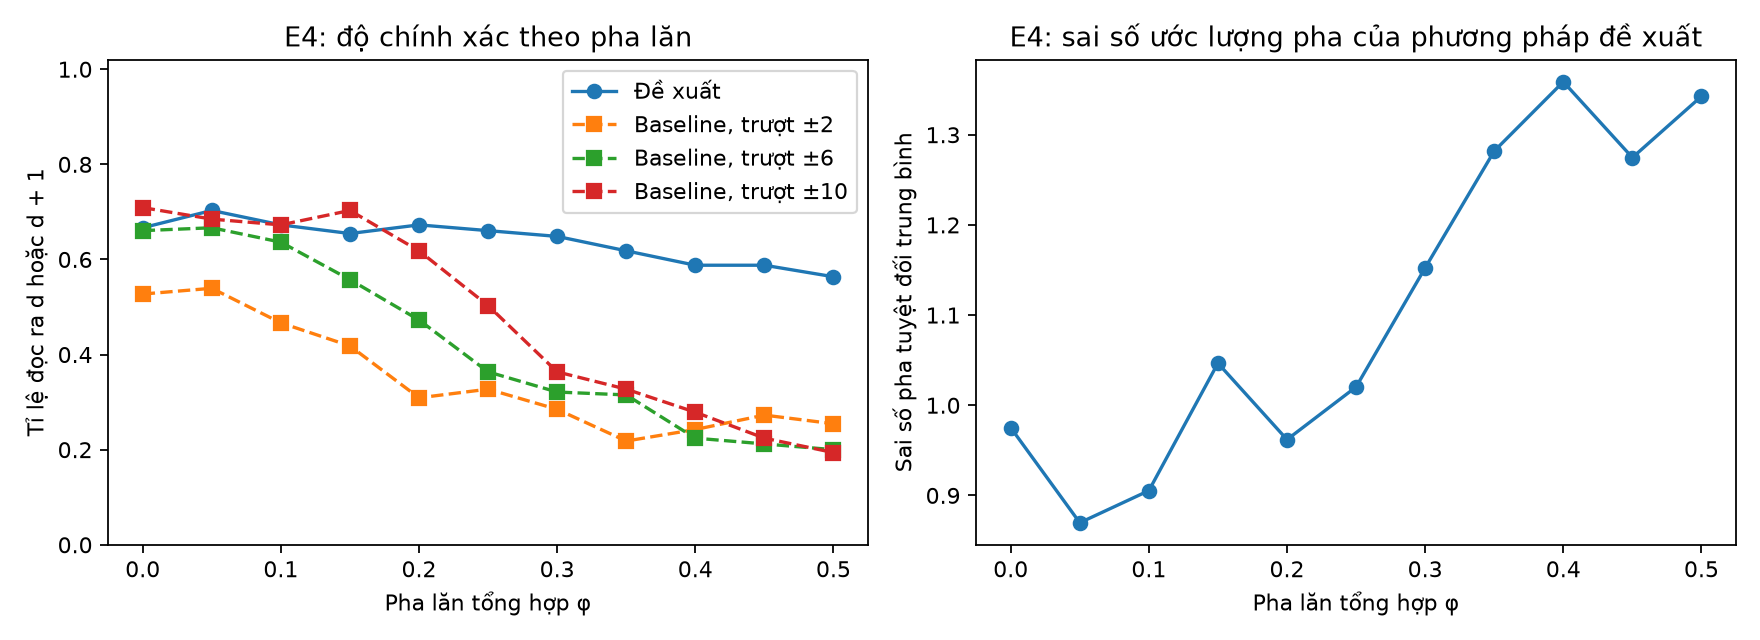
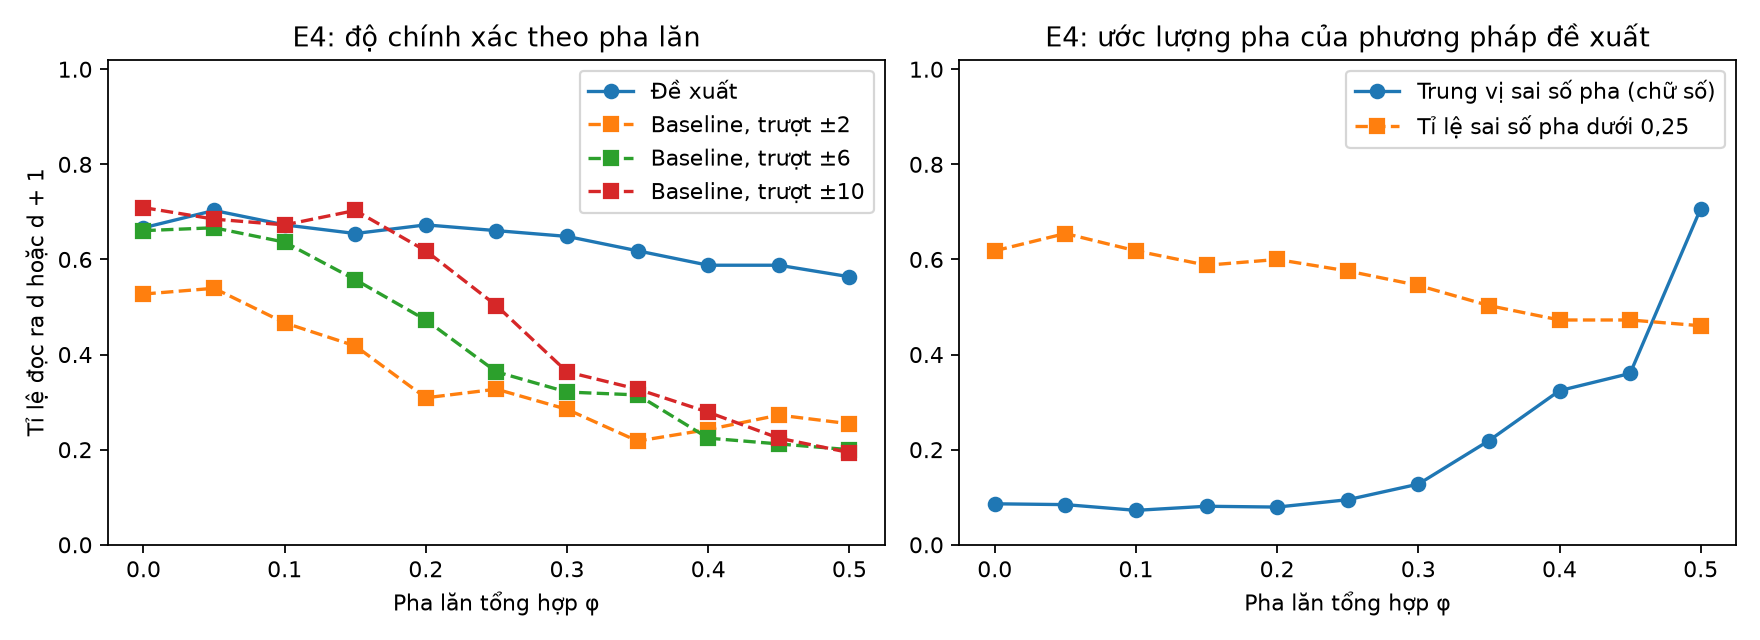
Plot median phase error in E4 and note phase degradation

diff --git a/experiments/run_e3_e4.py b/experiments/run_e3_e4.py
@@ -146,7 +146,9 @@ def synthetic(args, templates, config):
         group = [r for r in rows if r['phi'] == phi]
         record = dict(phi=float(phi), n=len(group),
                       measured_roll=float(np.mean([r['measured_roll'] for r in group])),
-                      proposed_phase_mae=float(np.mean([abs(r['phase_error']) for r in group])))
+                      proposed_phase_mae=float(np.mean([abs(r['phase_error']) for r in group])),
+                      proposed_phase_median=float(np.median([abs(r['phase_error']) for r in group])),
+                      proposed_phase_within_quarter=float(np.mean([abs(r['phase_error']) < 0.25 for r in group])))
         for method in methods:
             record[f'{method}_reads_lower'] = float(np.mean([r[method] == r['digit'] for r in group]))
             record[f'{method}_reads_lower_or_next'] = float(np.mean(
@@ -176,10 +178,12 @@ def plot(curve, out, shifts):
     axes[0].set_title('E4: độ chính xác theo pha lăn')
     axes[0].set_ylim(0, 1.02)
     axes[0].legend()
-    axes[1].plot(phi, [c['proposed_phase_mae'] for c in curve], 'o-')
+    axes[1].plot(phi, [c['proposed_phase_median'] for c in curve], 'o-', label='Trung vị sai số pha (chữ số)')
+    axes[1].plot(phi, [c['proposed_phase_within_quarter'] for c in curve], 's--', label='Tỉ lệ sai số pha dưới 0,25')
     axes[1].set_xlabel('Pha lăn tổng hợp φ')
-    axes[1].set_ylabel('Sai số pha tuyệt đối trung bình')
-    axes[1].set_title('E4: sai số ước lượng pha của phương pháp đề xuất')
+    axes[1].set_ylim(0, 1.02)
+    axes[1].set_title('E4: ước lượng pha của phương pháp đề xuất')
+    axes[1].legend()
     fig.tight_layout()
     fig.savefig(out / 'e4_curve.png', dpi=160)
     plt.close(fig)

diff --git a/experiments/quang/README.md b/experiments/quang/README.md
@@ -42,7 +42,7 @@ Số trong bảng là tỉ lệ đọc ra d hoặc d + 1. Bảng đủ và hình
 Đối chiếu với dự đoán trong `report/challenge-statement.md`:
 
 - Dự đoán 1 (baseline gãy theo s/p): điểm gãy, lấy là φ đầu tiên có tỉ lệ dưới 50%, dời theo bán kính trượt: 0,10 với ±2, 0,20 với ±6, 0,30 với ±10. Chiều dời đúng dự đoán. Vị trí muộn hơn s/p (0,03; 0,10; 0,17) khoảng 0,07 tới 0,13, gần với (s + w)/p khi w khoảng 5 điểm ảnh. Quan hệ này rút ra sau khi xem số liệu, chưa kiểm chứng độc lập.
-- Dự đoán 2 (đề xuất không gãy theo φ): đúng trên ảnh tổng hợp. Tỉ lệ của phương pháp đề xuất ở trong khoảng 56% tới 70% suốt dải φ và không xuống dưới 50%.
+- Dự đoán 2 (đề xuất không gãy theo φ ở tầng nhẹ và trung bình): đúng trên ảnh tổng hợp. Tỉ lệ của phương pháp đề xuất ở trong khoảng 56% tới 70% suốt dải φ và không xuống dưới 50%. Tuy vậy, việc định vị pha bắt đầu kém đi từ φ khoảng 0,35: trung vị sai số pha giữ quanh 0,08 chữ số tới φ = 0,3, rồi tăng lên 0,22 ở φ = 0,35 và 0,70 ở φ = 0,5. Ở vùng này phương pháp đề xuất vẫn đọc ra d hoặc d + 1, nhưng không còn biết chính xác cửa sổ đang ở đâu giữa hai chữ số, nên ngưỡng t quyết định nhiều hơn pha đo được.
 - Dự đoán 3 (lỗi dồn quanh ngưỡng, phần lớn lệch một chữ số): không được ủng hộ. Ở φ = 0, trung vị sai số pha chỉ 0,09 chữ số, nhưng khoảng 36% cặp sai trọn một hay nhiều chữ số. Lỗi chính là nhầm mẫu chữ số, giống baseline ở ảnh đứng yên, không phải lỗi định vị pha. Trên tập đánh giá, lỗi lệch một chữ số chỉ chiếm 25,2% lỗi chữ số cuối ở tầng nặng.
 - Dự đoán 4 (gãy khi chiều cao chữ số lệch quá 9% trung vị): chưa kết luận được. Trung vị chiều cao đo trên bốn chữ số đầu là 56,5 điểm ảnh. Ở tầng nặng chỉ 18 ảnh lệch quá 9%, độ chính xác 38,9% so với 28,3% ở 389 ảnh còn lại, ngược chiều dự đoán nhưng mẫu quá nhỏ. Bảng: `e4_height_split.csv`.
 
